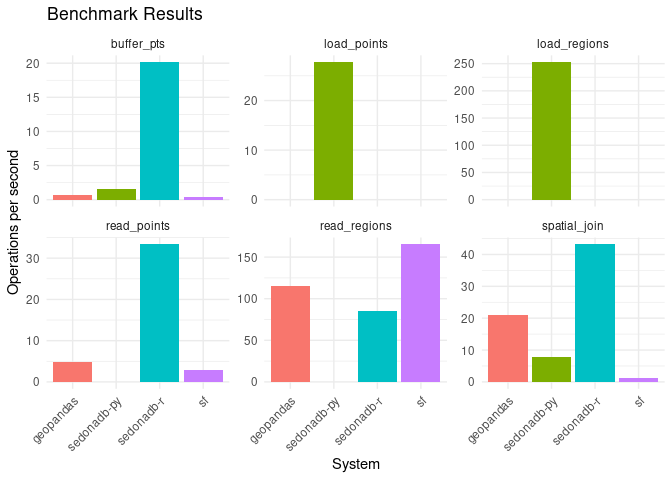
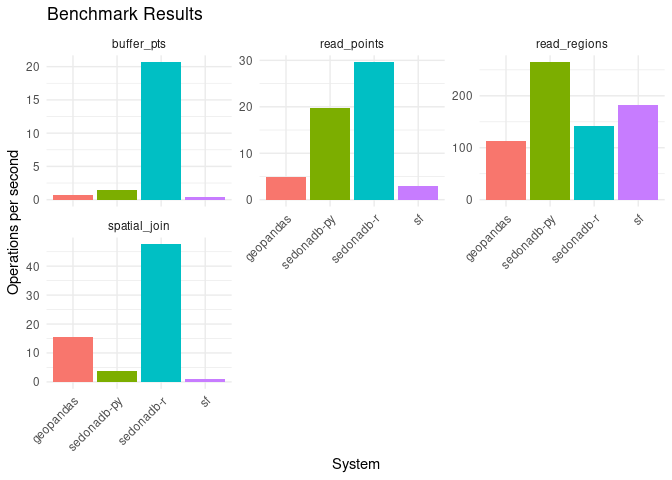
Harmonize operation names to fix plot facets, refresh benchmarks

diff --git a/scripts/bench_sedona_py.py b/scripts/bench_sedona_py.py
@@ -26,8 +26,8 @@ def time_func(name, func, *args, **kwargs):
     print(f"{name}: {avg_time:.4f} s (avg of 5)")
     
     key_map = {
-        "Load Points": "load_points",
-        "Load Regions": "load_regions",
+        "Load Points": "read_points",
+        "Load Regions": "read_regions",
         "Spatial Join": "spatial_join",
         "Buffer Points": "buffer_pts"
     }

diff --git a/README.md b/README.md
@@ -43,21 +43,21 @@ Run on 100,000 points and 16 polygons (Regions).
 
 | system      | language | operation    | ops_per_sec |
 |:------------|:---------|:-------------|------------:|
-| sf          | R        | read_points  |        2.94 |
-| sf          | R        | read_regions |      165.24 |
-| sf          | R        | spatial_join |        1.13 |
-| sf          | R        | buffer_pts   |        0.36 |
-| geopandas   | Python   | read_points  |        4.86 |
-| geopandas   | Python   | read_regions |      114.73 |
-| geopandas   | Python   | buffer_pts   |        0.69 |
-| geopandas   | Python   | spatial_join |       21.00 |
-| sedonadb-py | Python   | load_points  |       27.75 |
-| sedonadb-py | Python   | load_regions |      252.66 |
-| sedonadb-py | Python   | buffer_pts   |        1.58 |
-| sedonadb-py | Python   | spatial_join |        7.71 |
-| sedonadb-r  | R        | read_points  |       33.34 |
-| sedonadb-r  | R        | read_regions |       85.43 |
-| sedonadb-r  | R        | buffer_pts   |       20.15 |
-| sedonadb-r  | R        | spatial_join |       43.16 |
+| sf          | R        | read_points  |        2.89 |
+| sf          | R        | read_regions |      183.16 |
+| sf          | R        | spatial_join |        1.12 |
+| sf          | R        | buffer_pts   |        0.35 |
+| geopandas   | Python   | read_points  |        4.97 |
+| geopandas   | Python   | read_regions |      112.48 |
+| geopandas   | Python   | buffer_pts   |        0.63 |
+| geopandas   | Python   | spatial_join |       15.65 |
+| sedonadb-py | Python   | read_points  |       19.82 |
+| sedonadb-py | Python   | read_regions |      264.77 |
+| sedonadb-py | Python   | buffer_pts   |        1.52 |
+| sedonadb-py | Python   | spatial_join |        3.71 |
+| sedonadb-r  | R        | read_points  |       29.61 |
+| sedonadb-r  | R        | read_regions |      142.42 |
+| sedonadb-r  | R        | buffer_pts   |       20.67 |
+| sedonadb-r  | R        | spatial_join |       47.52 |
 
 ![](README_files/figure-commonmark/plot-results-1.png)